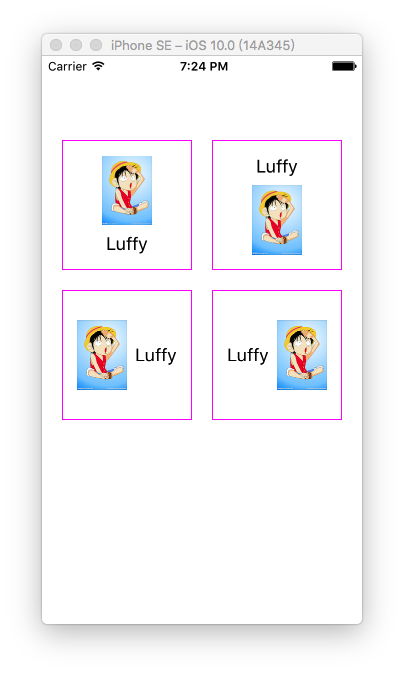
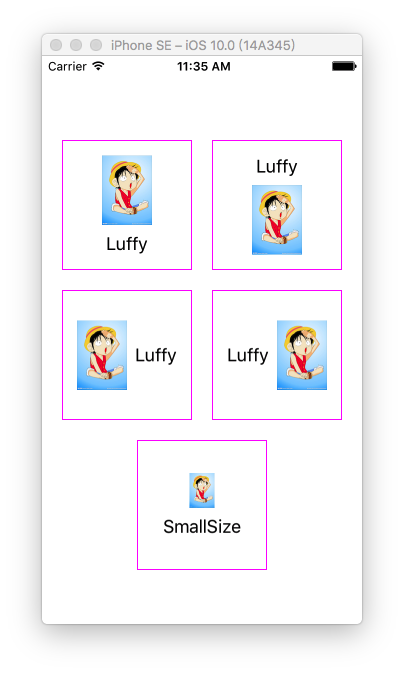
提供接口，可指定图片size。

diff --git a/JXLayoutButtonDemo/JXLayoutButton.m b/JXLayoutButtonDemo/JXLayoutButton.m
@@ -13,6 +13,7 @@
 - (instancetype)initWithFrame:(CGRect)frame {
     if (self = [super initWithFrame:frame]) {
         self.midSpacing = 8;
+        self.imageSize = CGSizeZero;
     }
     return self;
 }
@@ -20,7 +21,15 @@
 - (void)layoutSubviews {
     [super layoutSubviews];
     
-    [self.imageView sizeToFit];
+    if (CGSizeEqualToSize(CGSizeZero, self.imageSize)) {
+        [self.imageView sizeToFit];
+    }
+    else {
+        self.imageView.frame = CGRectMake(self.imageView.frame.origin.x,
+                                          self.imageView.frame.origin.y,
+                                          self.imageSize.width,
+                                          self.imageSize.height);
+    }
     [self.titleLabel sizeToFit];
     
     switch (self.layoutStyle) {

diff --git a/JXLayoutButtonDemo/ViewController.m b/JXLayoutButtonDemo/ViewController.m
@@ -33,6 +33,12 @@
     
     [self addButton: [self generateButtonWithStyle:JXLayoutButtonStyleLeftTitleRightImage]
           withFrame:CGRectMake(margin + buttonWidth + margin, 64 + margin + buttonHeight + margin, buttonWidth, buttonHeight)];
+    
+    JXLayoutButton *customSizeButton = [self generateButtonWithStyle:JXLayoutButtonStyleUpImageDownTitle];
+    [customSizeButton setTitle:@"SmallSize" forState:UIControlStateNormal];
+    customSizeButton.imageSize = CGSizeMake(100 / 4, 140 / 4);
+    [self addButton:customSizeButton
+          withFrame:CGRectMake((CGRectGetWidth(self.view.frame) - buttonWidth) / 2.0, 64 + margin * 3 + buttonHeight * 2, buttonWidth, buttonHeight)];
 }
 
 - (JXLayoutButton *)generateButtonWithStyle:(JXLayoutButtonStyle)style {

diff --git a/JXLayoutButtonDemo/JXLayoutButton.h b/JXLayoutButtonDemo/JXLayoutButton.h
@@ -22,5 +22,7 @@ typedef NS_ENUM(NSUInteger, JXLayoutButtonStyle) {
 @property (nonatomic, assign) JXLayoutButtonStyle layoutStyle;
 /// 图片和文字的间距，默认值8
 @property (nonatomic, assign) CGFloat midSpacing;
+/// 指定图片size
+@property (nonatomic, assign) CGSize imageSize;
 
 @end
